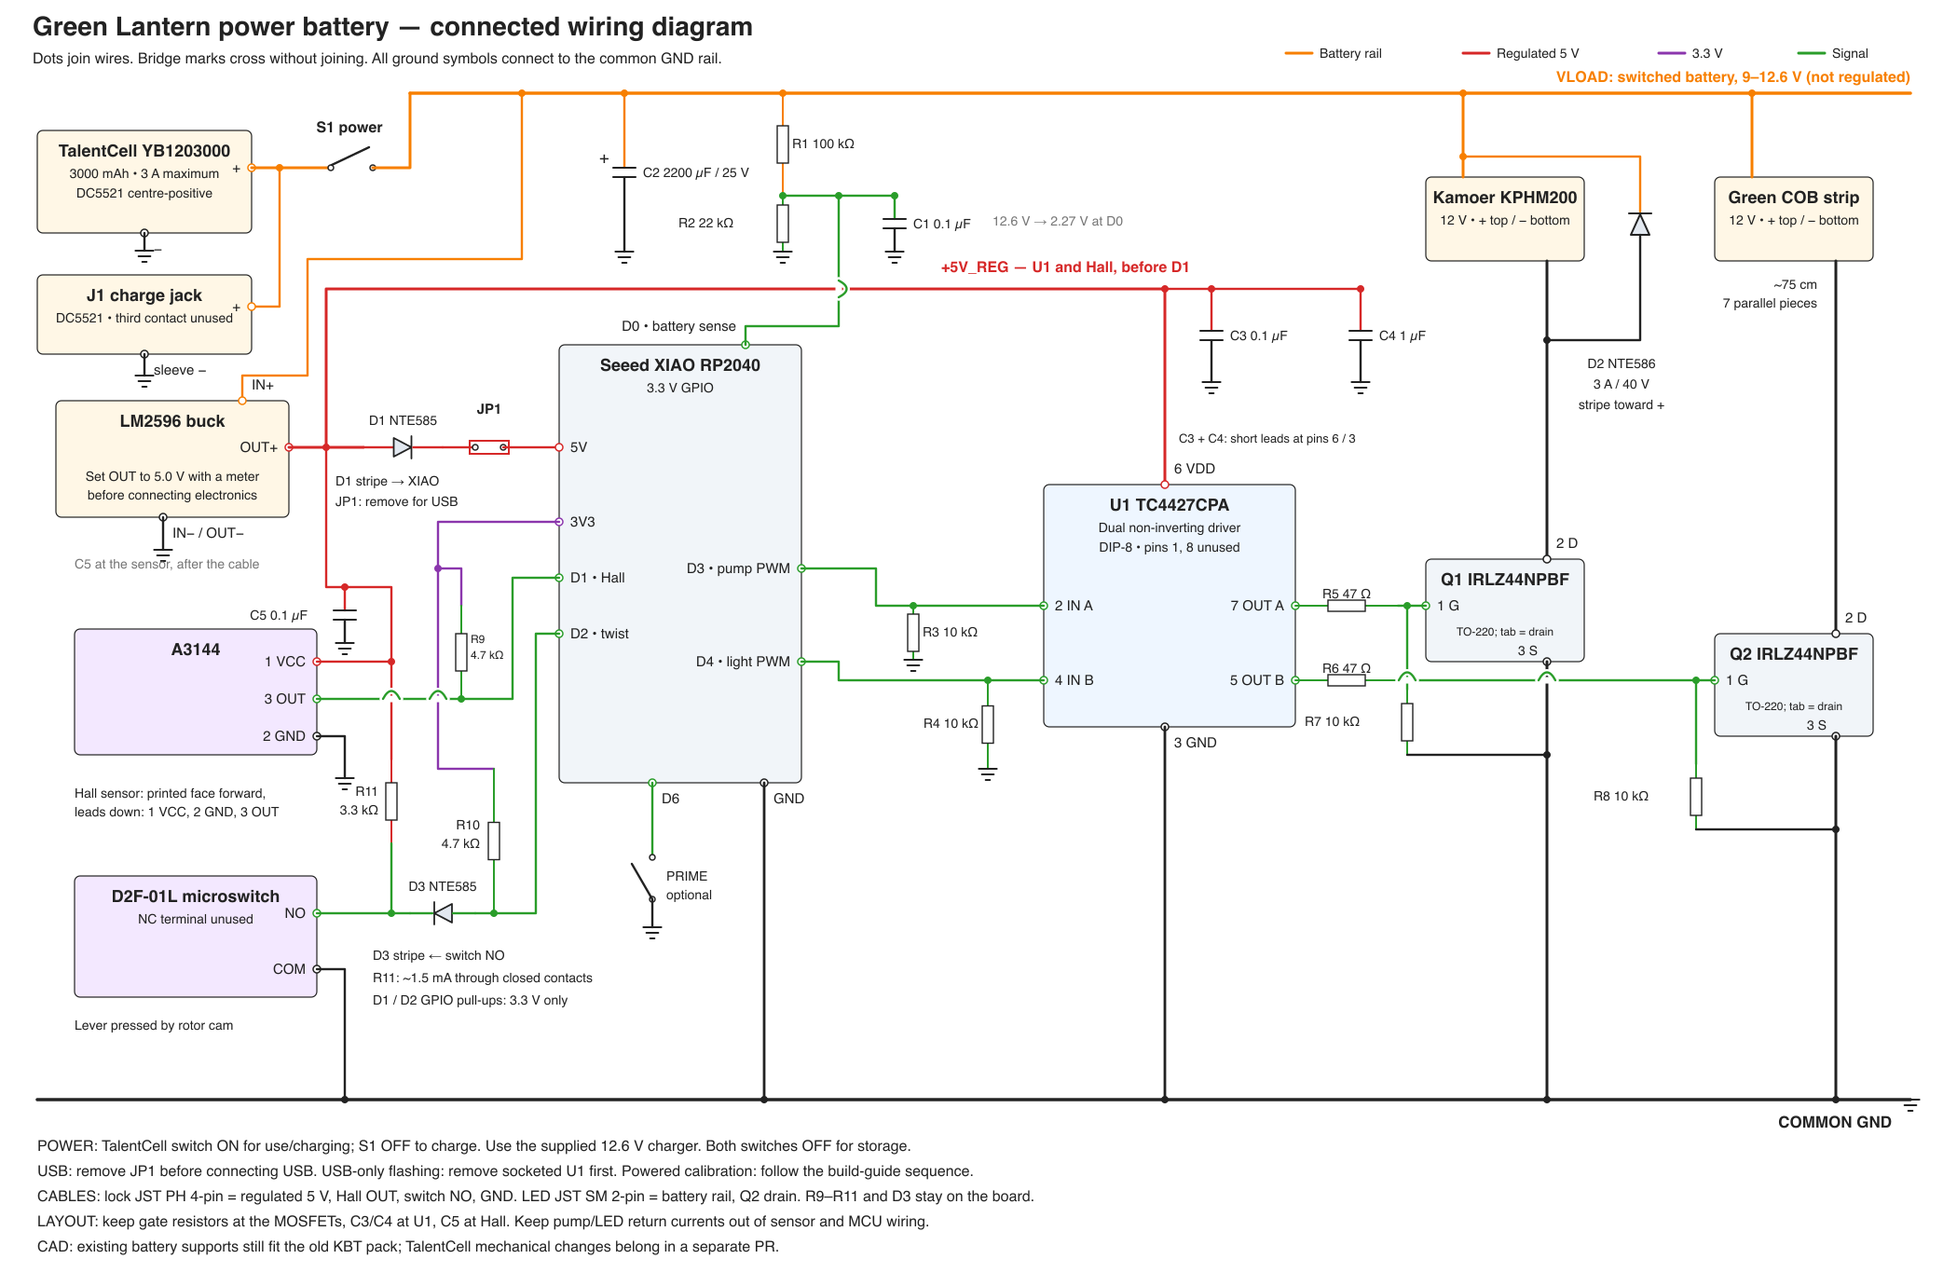
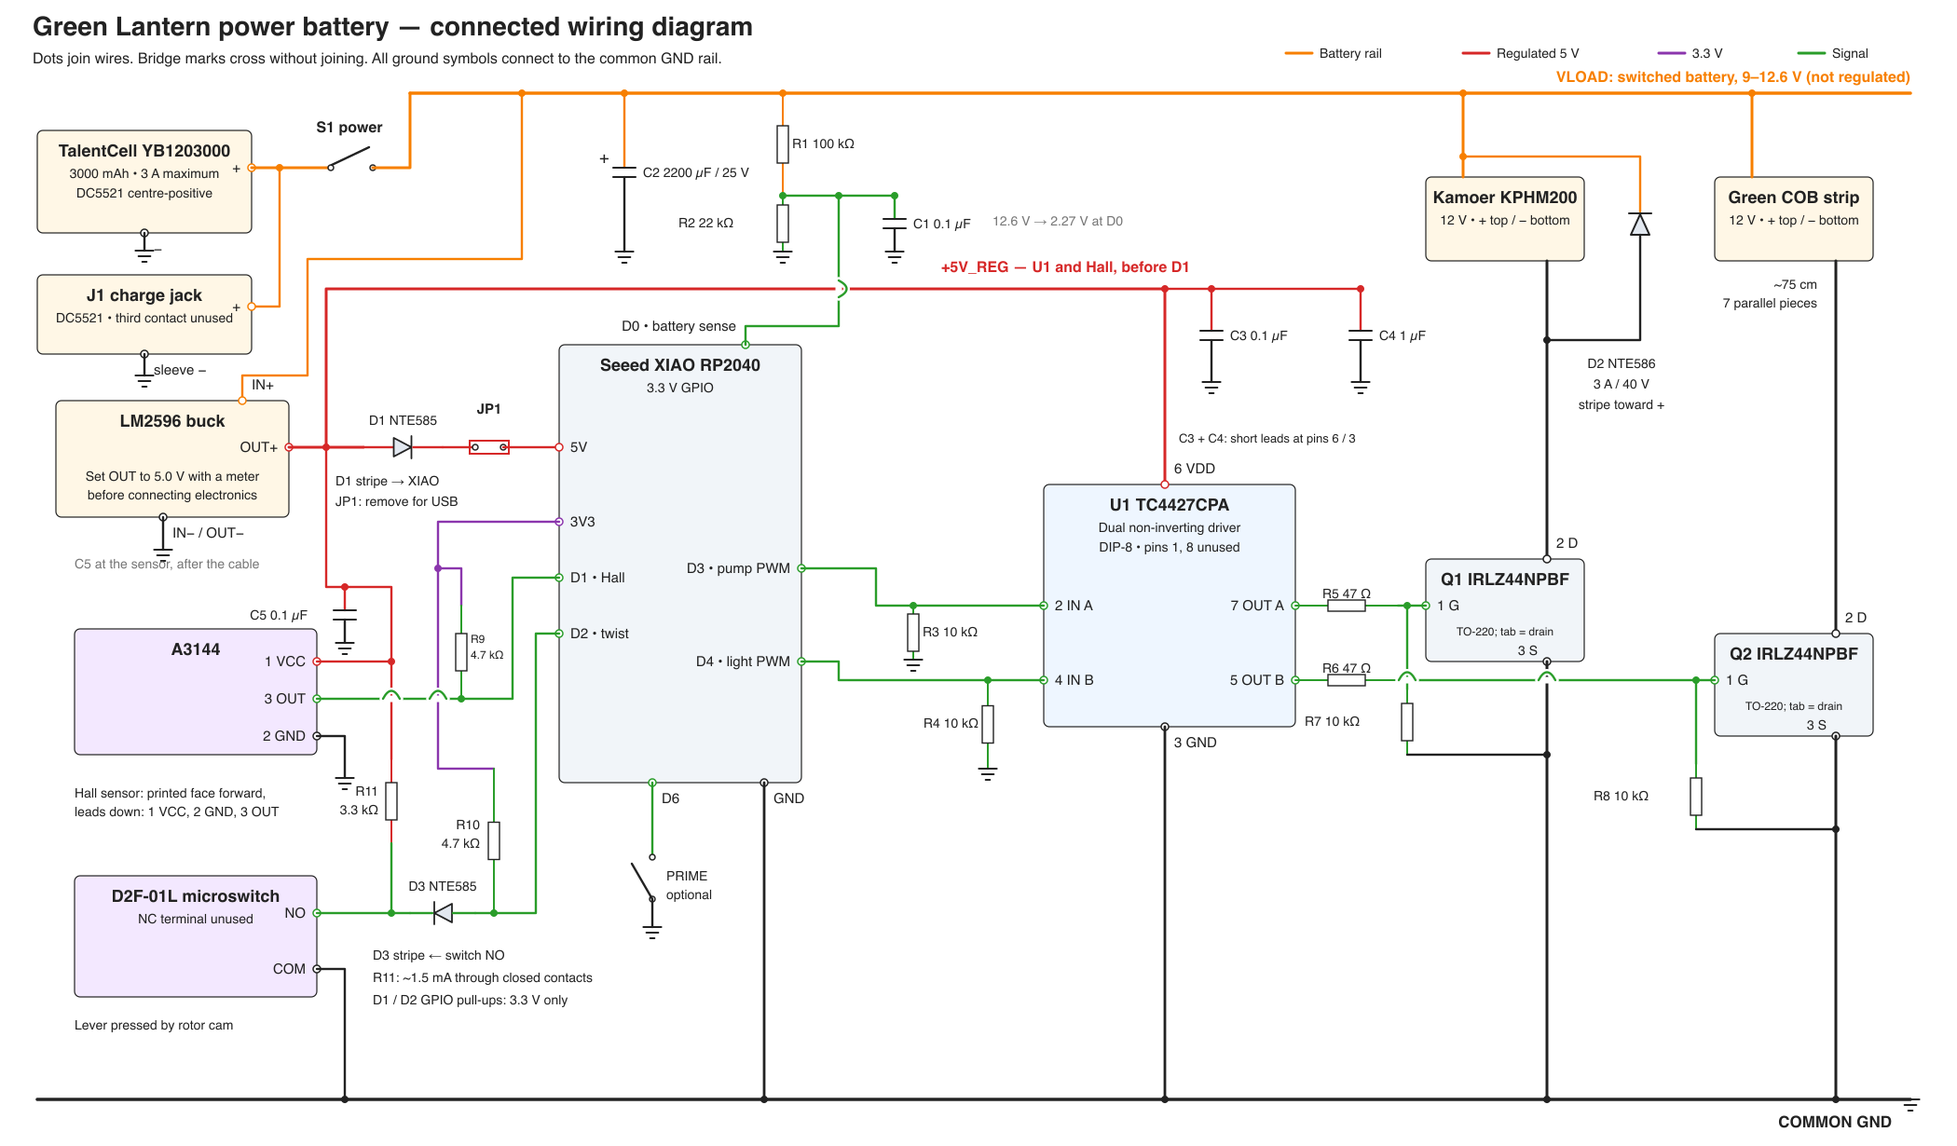
Tabulate circuit changes and select remaining purchase listings
Remove the dense schematic footer and specify Amazon offers for the TC4427CPA driver and 1 uF X7R capacitor, including observed prices and delivery dates.

Assisted-by: Codex

diff --git a/docs/images/src/gen_wiring.py b/docs/images/src/gen_wiring.py
@@ -7,7 +7,7 @@ from pathlib import Path
 from svgkit import SVG, RED, ORANGE, BLACK, GREEN, GREY
 
 MAG = '#8b36ad'
-s = SVG(2100, 1380, 'Green Lantern — connected circuit diagram')
+s = SVG(2100, 1230, 'Green Lantern — connected circuit diagram')
 bridges = []
 
 
@@ -265,14 +265,6 @@ for path,straight,color in bridges:
     s.path(straight,stroke='white',sw=7)
     s.path(path,stroke='white',sw=7)
     s.path(path,stroke=color,sw=2.4)
-
-s.lines(40,1235,[
-    'POWER: TalentCell switch ON for use/charging; S1 OFF to charge. Use the supplied 12.6 V charger. Both switches OFF for storage.',
-    'USB: remove JP1 before connecting USB. USB-only flashing: remove socketed U1 first. Powered calibration: follow the build-guide sequence.',
-    'CABLES: lock JST PH 4-pin = regulated 5 V, Hall OUT, switch NO, GND. LED JST SM 2-pin = battery rail, Q2 drain. R9–R11 and D3 stay on the board.',
-    'LAYOUT: keep gate resistors at the MOSFETs, C3/C4 at U1, C5 at Hall. Keep pump/LED return currents out of sensor and MCU wiring.',
-    'CAD: existing battery supports still fit the old KBT pack; TalentCell mechanical changes belong in a separate PR.',
-],size=16,lh=27)
 
 out=Path(__file__).resolve().parent.parent/'wiring.svg'
 out.write_text(s.finish())

diff --git a/docs/review/CIRCUIT_PR.md b/docs/review/CIRCUIT_PR.md
@@ -6,29 +6,16 @@ and [build instructions](../BUILD_GUIDE.md#4-electronics-build-it-on-the-bench-f
 
 ## Circuit changes and why
 
-- **Battery:** replace the 2400 mAh, 2 A KBT pack with the 3000 mAh, 3 A TalentCell YB1203000 for
-  more current headroom and capacity.
-- **Gate drive:** replace the 74AHCT125 logic buffer with a TC4427CPA gate driver. The driver can
-  charge and discharge the MOSFET gates faster, reducing the time spent partially on and the associated
-  heating. Add 47 Ω gate resistors to damp switching oscillations and 10 kΩ gate-to-source pull-downs
-  to hold the pump and lights off when the driver is not driving them.
-- **5 V wiring:** move the driver and Hall sensor supply connections ahead of the XIAO supply diode
-  in the diagram. They need the buck's full 5 V; the diode's voltage drop should affect only the XIAO branch.
-- **Local capacitors:** draw the driver's 0.1 µF bypass capacitor that was already required by the build
-  guide but missing from the diagram. Also add two new capacitors: 1 µF beside the driver to support its
-  brief gate-charging current pulses, and 0.1 µF at the Hall sensor to reduce supply noise at the end of its cable.
-- **Hall input:** remove the series diode and connect the A3144 output directly to GPIO D1 with a
-  4.7 kΩ pull-up to 3.3 V. The sensor's open-collector output already pulls the signal to ground without
-  feeding 5 V into the GPIO; the diode adds an unnecessary voltage drop.
-- **Twist input:** replace D2F-L with D2F-01L, which is intended for low-current signals. The weak GPIO
-  pull-up alone supplies too little contact current for its specified operating conditions. Add a 3.3 kΩ
-  resistor from 5 V to supply about 1.5 mA through closed contacts, improving reliable switch detection.
-  A diode blocks that 5 V from the GPIO, whose own 4.7 kΩ pull-up keeps its signal at 3.3 V.
-- **Protection:** change the 2200 µF capacitor from 16 V to 25 V for more voltage margin, and replace
-  the pump's 1 A flyback diode with a 3 A/40 V NTE586 for more current margin when the motor switches off.
-- **USB power:** add removable JP1 in the XIAO's battery supply branch. Remove it for programming or
-  calibration over USB to prevent the battery supply from feeding the USB connection. The build guide
-  covers the accompanying driver power sequence.
+| Circuit | Change | Why |
+|---|---|---|
+| Battery | KBT 2400 mAh / 2 A → TalentCell YB1203000, 3000 mAh / 3 A. | More current headroom and capacity. |
+| Gate drive | 74AHCT125 → TC4427CPA; add 47 Ω gate resistors and 10 kΩ gate-to-source pull-downs. | Faster gate charging reduces switching losses; resistors damp oscillations and hold undriven gates off. |
+| 5 V supply | Move driver and Hall feeds ahead of the XIAO supply diode in the diagram. | Give both the full regulated 5 V without the diode's voltage drop. |
+| Driver capacitors | Draw the existing required 0.1 µF capacitor; add 1 µF beside it. | Correct the missing diagram detail and support brief gate-charging current pulses. |
+| Hall sensor | Add local 0.1 µF bypass; remove output diode; add 4.7 kΩ pull-up to 3.3 V. | Reduce supply noise and obtain a defined GPIO signal without an unnecessary diode drop. |
+| Twist switch | D2F-L → D2F-01L; add 3.3 kΩ from 5 V to the contact, an isolating diode, and 4.7 kΩ GPIO pull-up to 3.3 V. | Use contacts intended for small signals and supply enough contact current for reliable detection while keeping 5 V off the GPIO. |
+| Protection | Bulk capacitor: 2200 µF/16 V → 2200 µF/25 V. Pump flyback diode: 1 A NTE585 → 3 A/40 V NTE586. | More capacitor voltage margin and more diode current margin during motor switch-off. |
+| USB power | Add removable JP1 in the XIAO battery feed; remove it during USB use. | Prevent the battery supply from feeding the USB connection. |
 
 Battery CAD changes belong in a separate PR. Firmware behavior and GPIO assignments are unchanged.
 
@@ -47,16 +34,16 @@ purchase/ownership status will be preserved. Prices below are the October 13 est
 |---|---|---|
 | 33 — Battery | Replace with one [TalentCell YB1203000 kit](https://www.amazon.com/dp/B00MHNQIR2), $22.99. | 3000 mAh, 3 A; 105 × 65 × 25 mm. |
 | 30 — Microswitch | Replace with [D2F-01L four-pack](https://www.amazon.com/dp/B0DBV9JX6L), $7.99; one used. | Seller’s claimed Omron origin unverified. |
-| 3 — Driver | Replace 74AHCT125 with **TC4427CPA, DIP-8**, quantity 1. | Source/price pending. |
+| 3 — Driver | Replace with [TC4427CPA, DIP-8 ten-pack](https://www.amazon.com/dp/B0992V3MNM), **$21.00**; one used. | PCComponentsCompany; delivery Oct 21. |
 | 12 — IC socket | Replace DIP-14 with [DIP-8 socket](https://vetco.net/products/8-pin-ic-socket-2-54mm-spacing-0-1), $1.24. | Fits new driver. |
 | 4 — MOSFETs | Specify **IRLZ44NPBF**, quantity 2; keep Vetco link. | Remove “IRLB8721 also fine” note. |
 | 5 — Diodes | NTE585: **3 → 2**. Add one [NTE586, 3 A/40 V](https://vetco.net/products/nte586_40_volt_3a_schottky_rectifier_do27_-_nte586), $2.02. | NTE586 replaces pump flyback diode. |
 | 6 — 10 kΩ resistors | Quantity **2 → 4**, $0.29 each. | Add two gate pull-downs. |
 | New — Resistors | Add **2 × [47 Ω](https://vetco.net/products/nte-qw047_47_ohm_1-4_watt_resistor)**, **2 × [4.7 kΩ](https://vetco.net/products/nte-qw247_4-7k_ohm_1-4_watt_resistor)** and **1 × [3.3 kΩ](https://vetco.net/products/nte-qw233_3-3k_ohm_1-4_watt_resistor)**; $0.29 each. | Gates, GPIO pull-ups, switch contact. |
-| 9 — Ceramic capacitors | 0.1 µF: **2 → 3**, $0.25 each. Add **1 × 1 µF X7R, ≥16 V**. | 1 µF source/price pending. |
+| 9 — Ceramic capacitors | 0.1 µF: **2 → 3**, $0.25 each. Add one [Multicomp MCMLR50V105KX7R, 1 µF/50 V X7R](https://www.amazon.com/dp/B005S3O6L8), **$1.50 + $4.95 shipping**. | Radial leads; salefolks; delivery Oct 23. |
 | 10 — Bulk capacitor | Replace 2200 µF/16 V with [2200 µF/25 V](https://vetco.net/products/2200uf25vdc_2200uf_25_volt_electrolytic_capacitor), $3.05. | Same capacitance, higher voltage rating. |
 | New — JP1 | Add [header strip](https://vetco.net/products/40-pin-breakable-male-single-row-header-connector-pc-mount-0-1-spacing), $1.99, and [shunt](https://vetco.net/products/vupn8912_0-1_-_2-54mm_shunt_-_jumper), $0.25. | Two header pins used; REMOVE FOR USB. |
 
-The new driver and 1 µF capacitor are specified in this circuit, but we have not yet selected Amazon or
-Vetco listings with suitable delivery dates. Their purchase links and prices must be filled in to complete
-the shopping-list changes and calculate the revised total.
+These selections put the parts increase at **$24.69**, plus the capacitor's **$4.95 shipping**, tax and
+any other shipping charges. Delivery dates are Amazon's October 13 estimates for Seattle; the capacitor
+also advertises October 19–21 with faster shipping (additional charge not shown).

diff --git a/docs/BUILD_GUIDE.md b/docs/BUILD_GUIDE.md
@@ -85,16 +85,16 @@ works on 3.3 V and either magnet pole.
 | 7 | Hall sensor, A3144 | [Vetco, VUPN6596](https://vetco.net/products/vupn6596_hall-effect_sensor_-_allegro_a3144eua_d63) | $1.99 | Runs on 5 V, reacts to one magnet pole. It sits on a post inside the lock, ~3 mm from the magnet: about 90 mT there, 2.5 x its worst-case switch point. |
 | 5b | Cable plugs | Vetco: [JST PH 4-pin pair](https://vetco.net/products/jst-ph-2-0-4-pin-connector-male-female-pair-pre-wired) ($2.24) for the lock cable, [JST SM 2-pin pair](https://vetco.net/products/vupn1054_jst_sm_2_pin_m-f_pair_locking_connector) ($1.75) for the LED leads | $3.99 | So the lantern unplugs from the base cartridge. |
 | 5a | Curtain sheet | Target, Fred Meyer, Office Depot (school aisle): one clear-frosted polypropylene folder, binder divider or report cover | ~$3 | Polypropylene flexes thousands of times, lets the light through and hides the inside. One sheet makes the curtain (13 strips 12 x 97 mm). 0.3-0.5 mm; thinner parts more easily. Not PVC/vinyl, which cracks at the folds. |
-| 10 | TC4427CPA dual non-inverting MOSFET driver, DIP-8 | Amazon/Vetco source **pending** | TBD | Accepts 3.3 V inputs and drives gates from regulated 5 V. Select DIP-8 TC4427CPA; do not substitute inverting TC4426, mixed TC4428, or surface-mount packages. Current cheap Amazon delivery windows are too late; resolve before ordering. |
+| 10 | TC4427CPA dual non-inverting MOSFET driver, DIP-8, ten-pack (1 used) | [Amazon B0992V3MNM](https://www.amazon.com/dp/B0992V3MNM), PCComponentsCompany | $21.00 | Accepts 3.3 V inputs and drives gates from regulated 5 V. Exact TC4427CPA, PDIP-8 listing; do not substitute TC4426, TC4428 or surface-mount packages. Free delivery Oct 21 shown for Seattle on Oct 13. |
 | 11 | 2 x IRLZ44NPBF N-MOSFET | [Vetco, VUPN1682](https://vetco.net/products/vupn1682_mosfet_mosft_for_micro_controllers_-_30v_-_60a_-_irlb8721pbf_d151) | $5.34 | Exact required part: IRLZ44NPBF, TO-220. Vendor URL/title is stale; its detail table names IRLZ44NPBF. Verify IRLZ44N marking; review substitutions before use. |
-| 12 | Small parts | Vetco; proposed Sheet edits in [electrical PR draft](review/CIRCUIT_PR.md#spreadsheet-edits-after-acceptance) | Reprice after review | 2 x NTE585, 1 x NTE586 (3 A/40 V); 4 x 10 kΩ, 2 x 47 Ω, 2 x 4.7 kΩ, 1 x 3.3 kΩ, 1 x 100 kΩ, 1 x 22 kΩ; 3 x 0.1 µF ceramic, 1 x 1 µF ceramic (≥16 V, X7R; source pending), 1 x 2200 µF/25 V; DIP-8 socket; JP1 two-pin header and shunt; existing perfboard, wire and heat-shrink. |
+| 12 | Small parts | Vetco and Amazon; proposed Sheet edits in [electrical PR draft](review/CIRCUIT_PR.md#spreadsheet-edits-after-acceptance) | Reprice after review | 2 x NTE585, 1 x NTE586 (3 A/40 V); 4 x 10 kΩ, 2 x 47 Ω, 2 x 4.7 kΩ, 1 x 3.3 kΩ, 1 x 100 kΩ, 1 x 22 kΩ; 3 x 0.1 µF ceramic, 1 x [Multicomp MCMLR50V105KX7R](https://www.amazon.com/dp/B005S3O6L8), 1 µF/50 V X7R radial ceramic ($1.50 + $4.95 shipping, Amazon seller salefolks; Oct 23 delivery shown, or Oct 19–21 with faster shipping at an unquoted extra charge), 1 x 2200 µF/25 V; DIP-8 socket; JP1 two-pin header and shunt; existing perfboard, wire and heat-shrink. |
 | 12a | Power switch | [Vetco 30-10005, SPST mini toggle with leads](https://vetco.net/products/30-10005_spst_miniature_toggle_switch_w-wire_leads_on-off_6a) | $4.95 | On-off, 1/4" bushing (6.5 mm panel hole), 6 A at 12 V. |
 | 12b | Charge jack | [Vetco 2112, 2.1 mm DC panel jack](https://vetco.net/products/2112_2-1mm_dc_power_panel_mount_jack) | $2.88 | DC5521 (5.5 x 2.1 mm) female, 8 mm panel hole; the battery's charger plugs into it. |
 | 13 | M3 screws and nuts | Tacoma Screw, by the piece ([or the Amazon M3 kit, B0HKFCTLK8](https://www.amazon.com/dp/B0HKFCTLK8), $8.99, which has no countersunk screws) | ~$12 | 4 x M3x6, 17 x M3x8, 8 x M3x8 flat-head (countersunk), 6 x M3x10, 11 x M3x12, 14 nuts. They thread straight into the printed holes, except the 3 thumbscrews, 5 at the lock and the handle's 6 lap screws, which go into the 14 nuts. |
 | 14 | Compression spring | Ace Hardware, Hillman spring drawer (bring calipers) | ~$1-2 | About 0.4-0.5 mm wire, 5 mm outside diameter, ~10 mm long (cut a longer one down). A retractable pen's spring also fits but is softer. |
 | 15 | Super glue | the Gorilla Glue super glue you already have (any cyanoacrylate works) | - | For the magnets, the key cap, the nuts, the Hall sensor and a few dots on the diffuser. |
 
-**Previous design total (not a quote for this revision): about $186 before tax**: Amazon $118.02, Vetco $41.88, Tacoma Screw ~$12, and ~$14 of local estimates for the spring, the jar, the curtain sheet and the shot glass (the [shopping sheet](https://docs.google.com/spreadsheets/d/17pCjma48U2CBcsrsc3ZVFVb3nuV0KqnQlag0SO8B_yU/edit) has the store-by-store list). Two of the local items have size limits; measure in the store:
+**Previous design total (not a quote for this revision): about $186 before tax**: Amazon $118.02, Vetco $41.88, Tacoma Screw ~$12, and ~$14 of local estimates for the spring, the jar, the curtain sheet and the shot glass (the [shopping sheet](https://docs.google.com/spreadsheets/d/17pCjma48U2CBcsrsc3ZVFVb3nuV0KqnQlag0SO8B_yU/edit) has the store-by-store list). The proposed electrical changes add $24.69 in parts plus $4.95 capacitor shipping; refresh the Sheet totals after acceptance. Two of the local items have size limits; measure in the store:
 
 - **A food-safe jar no bigger than 73 mm across (lid included) and 76 mm tall** (Micro Homebrew in Kenmore has small food-safe jars; measure with the lid on).
 - **A 1.5 oz shot glass** up to 52 mm across the top and 62 mm tall (Libbey 1.5 oz glasses fit). About 1.3 cm of it stands above the slot for your fingers; a heavy base helps.

diff --git a/docs/review/PROGRESS.md b/docs/review/PROGRESS.md
@@ -316,8 +316,8 @@ Final checks on the branch head: `build.py` 0 problems (34 parts, all one body, 
   to avoid GPIO drive into its unpowered inputs. No firmware behavior or pin mapping changes.
 - Kept all CAD/export files unchanged; existing battery supports still fit KBT and require a separate PR.
 - `CIRCUIT_PR.md` is the local PR description and proposed post-acceptance Sheet delta, not a second BOM.
-  Live Sheet unchanged. Fast switch listing remains a marketplace candidate; driver and 1 µF capacitor
-  sourcing within Amazon/Vetco is still open. Do not call this ready to order before resolving those items.
+  Live Sheet unchanged. Fast switch listing remains a marketplace candidate. Driver and 1 µF capacitor
+  listings were subsequently selected; see the purchase-listing follow-up below.
 
 Validation: wiring SVG/PNG regenerated and visually checked; firmware simulations 20/20 pass;
 `git diff --check` clean. Target compilation unavailable (`arduino-cli` not installed). No CAD files
@@ -331,3 +331,17 @@ changed or regenerated, and no hardware measurements claimed.
   PRIME switch explicitly. Regenerated SVG/PNG and checked the rendered labels and wire paths.
 - Checked SVG parsing, deterministic regeneration and `git diff --check`. This presentation-only follow-up
   does not change firmware or CAD; prior firmware validation still applies.
+
+### Purchase listings and PR readability
+
+- Converted circuit-change prose to a Circuit / Change / Why table. Removed the five-line diagram footer
+  and reduced its canvas height; component labels and connections are unchanged. The original also had
+  footer notes, but assembly/service details belong in the build guide.
+- Selected Amazon B0992V3MNM: TC4427CPA PDIP-8, ten-pack, $21, seller PCComponentsCompany; three lots
+  shown in stock, free October 21 delivery. Amazon B005S3O6L8: Multicomp MCMLR50V105KX7R, 1 µF/50 V
+  X7R radial ceramic, one at $1.50 plus $4.95 shipping, seller salefolks; in stock, October 23 delivery
+  or October 19–21 expedited (extra charge not shown). Observed October 13 for Seattle.
+- Rejected Vetco VUPN1930 as an exact match: its listing specifies 1 µF/50 V ceramic but not X7R.
+  The selected Amazon capacitor meets the existing specification without changing the circuit.
+- Updated build guide, README and context; proposed parts delta $24.69 plus $4.95 capacitor shipping.
+  Sheet untouched; nothing published or purchased. Diagram regenerated and visually checked.

diff --git a/docs/review/CONTEXT.md b/docs/review/CONTEXT.md
@@ -212,7 +212,10 @@ Revision history is in `cad/DESIGN_CONTRACT.md` (revisions 2-9g). The repository
 - Seeed XIAO RP2040 (B0DRNTQ338); GPIO assignments and firmware behavior are unchanged.
 - TC4427CPA dual non-inverting driver replaces 74AHCT125. DIP-8 socket; VDD pin 6 directly at regulated
   5 V, GND pin 3, pins 1/8 unused. Pump IN/OUT 2/7, LED IN/OUT 4/5. Local 0.1 µF + 1 µF ceramic bypass.
-  Exact Amazon/Vetco driver and 1 µF capacitor purchase listings remain open; no new supplier approved.
+  Purchase listings selected: Amazon B0992V3MNM, TC4427CPA ten-pack from PCComponentsCompany ($21; one used),
+  and B005S3O6L8, Multicomp MCMLR50V105KX7R from salefolks ($1.50 + $4.95 shipping). October 13
+  delivery estimates to Seattle: driver October 21; capacitor October 23, or October 19–21 expedited
+  with an unquoted extra charge. No circuit substitution and no additional retail supplier.
 - Two IRLZ44NPBF low-side MOSFETs: 47 Ω series at each gate, 10 kΩ gate-to-source each; keep the two
   10 kΩ input pull-downs. Specify exact MOSFET in Item and vendor-title discrepancy in Notes.
 - NTE586 3 A/40 V flyback across pump, stripe to battery positive. Two NTE585 remain: XIAO supply and
@@ -357,3 +360,8 @@ the 2026-10-13 starting point; the sheet is the source of truth.
 - **2026-10-13, circuit diagram presentation.** The owner rejected separate net-labelled panels. Keep the
   circuit as one connected diagram with visible power and signal interconnects, junction dots and clear
   non-connecting crossings. The corrected SVG/PNG preserves the reviewed electrical design.
+
+- **2026-10-13, PR table and purchase listings.** Show circuit changes as a Change/Why table and remove
+  the diagram's dense footer; assembly/service details stay in the build guide. Select the Amazon driver
+  and capacitor listings recorded above. The parts delta is now $24.69 plus $4.95 capacitor shipping, tax
+  and any other shipping charges. Sheet edits still wait for acceptance and separate review.

diff --git a/README.md b/README.md
@@ -4,7 +4,7 @@ A Halloween prop: a 3D-printed Green Lantern power battery (about 470 mm tall, 1
 with a hidden peristaltic pump, a hidden nozzle, and a twist-to-pour lock inside the sphere.
 Punch in through a strip curtain so the ring seats in the lock, then twist and hold it through the oath: the
 pump pours about 1 oz into the shot glass under the lock while the light climbs; turn back and the light
-swells and goes dark. Slide the glass out and drink. The previous parts estimate was about $186; the electrical revision awaits final driver/capacitor sourcing.
+swells and goes dark. Slide the glass out and drink. The previous parts estimate was about $186; the proposed electrical revision adds about $25 in parts plus shipping.
 
 Start here: **[docs/BUILD_GUIDE.md](docs/BUILD_GUIDE.md)** (parts list with links, printing,
 assembly, wiring, firmware, calibration, testing, cleaning). Shopping list (who has what, what's left to buy, links and prices): the
